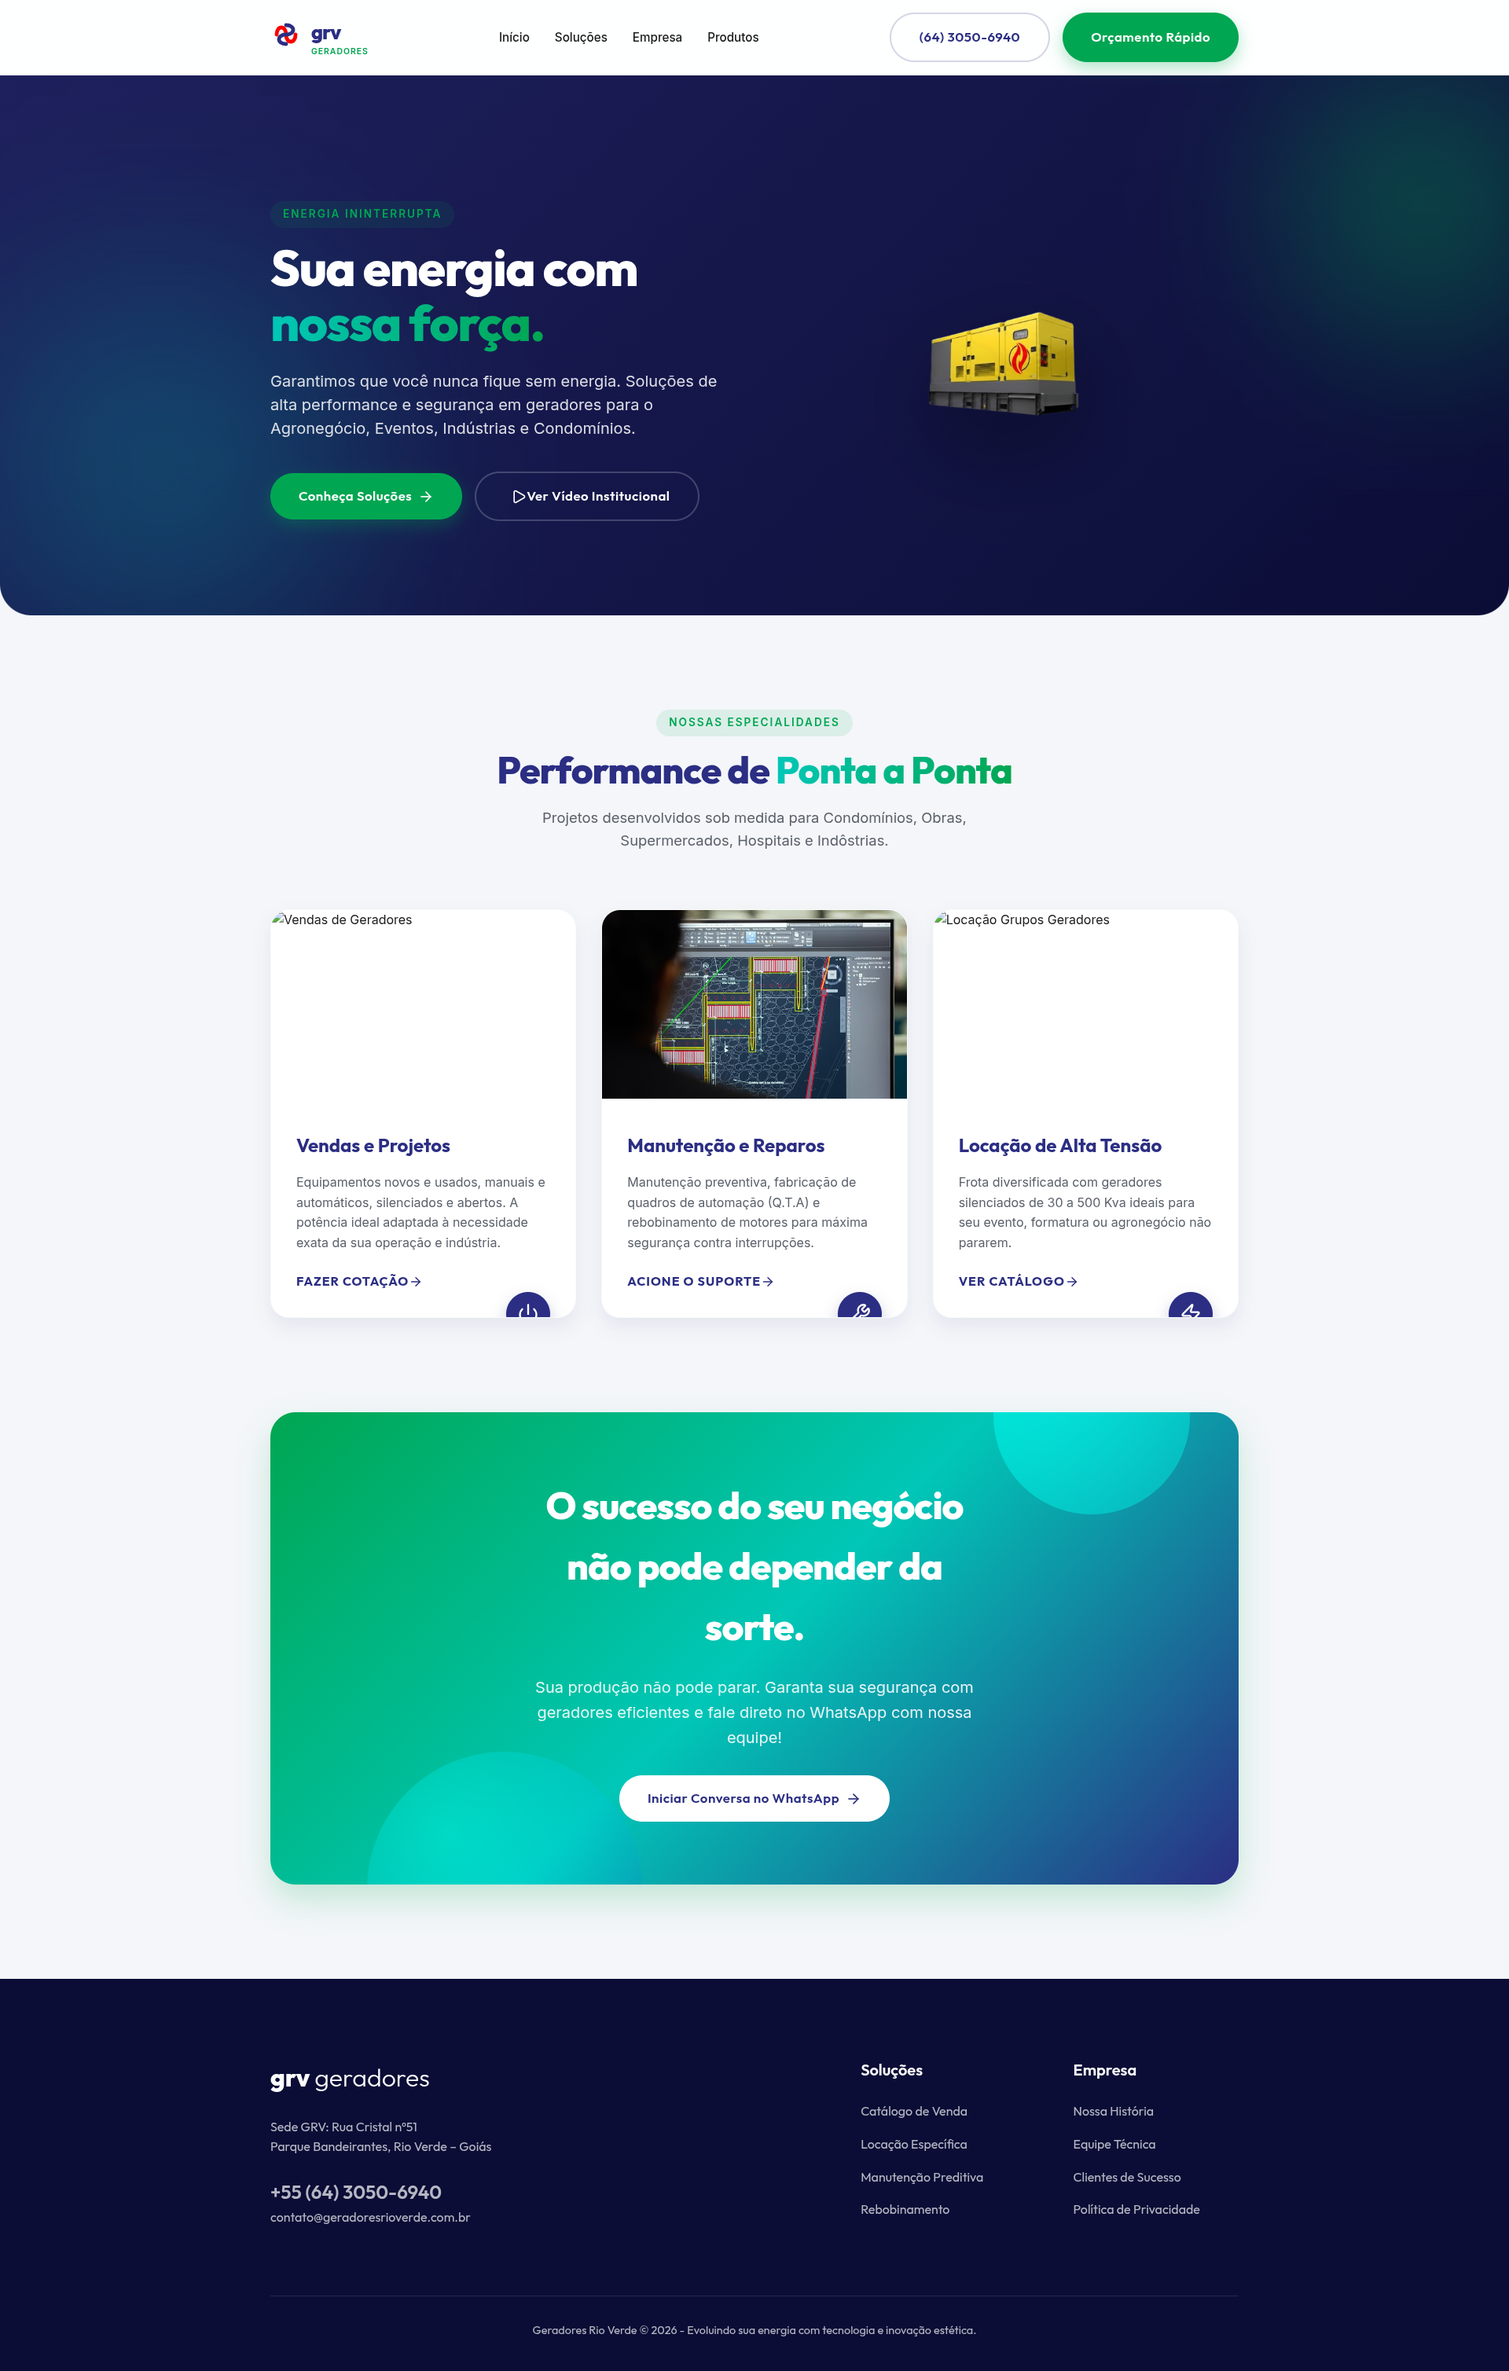
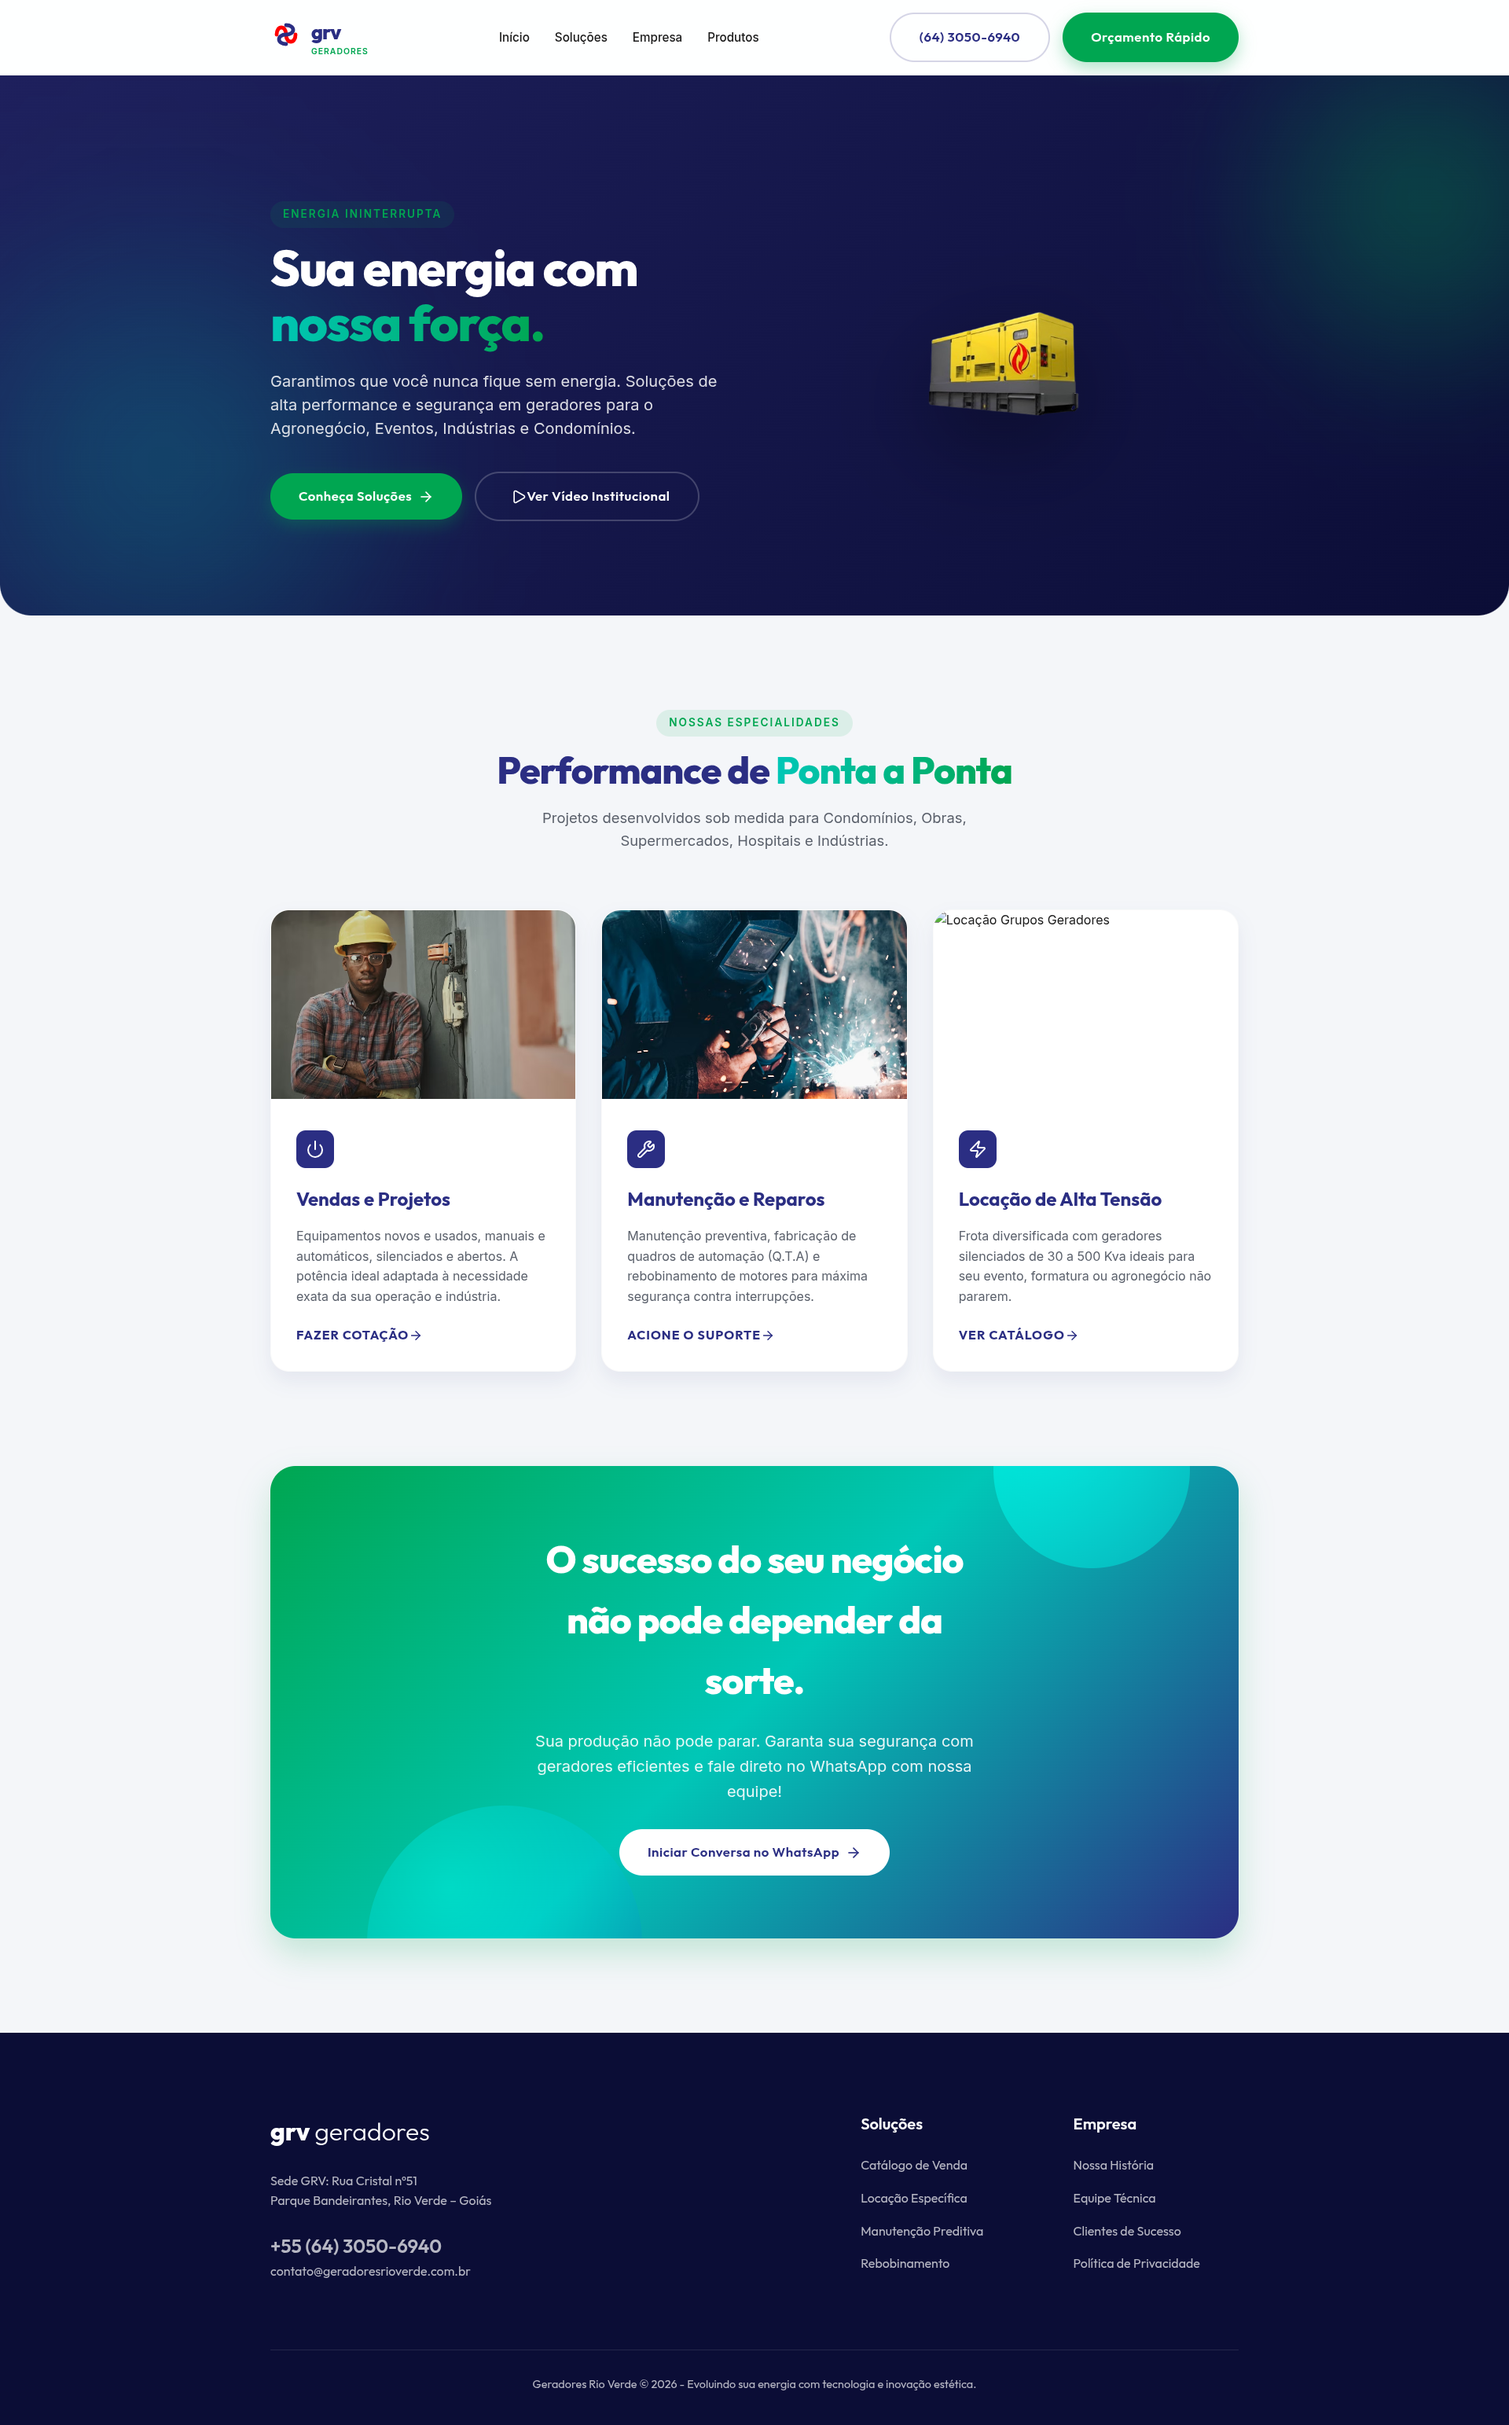
feat: novo hero com imagem de capa em tela cheia e correções de UI

diff --git a/novo-site/src/index.css b/novo-site/src/index.css
@@ -160,21 +160,52 @@ header {
   border-radius: 0 0 40px 40px;
   background: var(--gradient-dark);
   color: white;
-  padding: 160px 0 120px;
+  padding: 180px 0 140px;
   overflow: hidden;
+  min-height: 85vh;
+  display: flex;
+  align-items: center;
 }
 
-/* Efeito de fluido/energia de fundo inspirado na referência "Gostou do Conteudo" */
+/* Imagem de capa como fundo */
+.hero-bg {
+  position: absolute;
+  top: 0;
+  left: 0;
+  right: 0;
+  bottom: 0;
+  z-index: 0;
+}
+
+.hero-bg img {
+  width: 100%;
+  height: 100%;
+  object-fit: cover;
+  object-position: center right;
+}
+
+/* Overlay escuro para legibilidade */
+.hero-bg::after {
+  content: '';
+  position: absolute;
+  top: 0;
+  left: 0;
+  right: 0;
+  bottom: 0;
+  background: linear-gradient(90deg, rgba(11, 13, 54, 0.92) 0%, rgba(11, 13, 54, 0.7) 50%, rgba(11, 13, 54, 0.3) 100%);
+}
+
+/* Efeito de fluido/energia de fundo */
 .hero-glow-1 {
   position: absolute;
   top: -20%;
   right: -10%;
   width: 600px;
   height: 600px;
-  background: radial-gradient(circle, rgba(0, 166, 81, 0.4) 0%, rgba(255, 255, 255, 0) 70%);
+  background: radial-gradient(circle, rgba(0, 166, 81, 0.25) 0%, rgba(255, 255, 255, 0) 70%);
   border-radius: 50%;
   filter: blur(60px);
-  z-index: 0;
+  z-index: 1;
 }
 
 .hero-glow-2 {
@@ -183,23 +214,22 @@ header {
   left: -10%;
   width: 800px;
   height: 800px;
-  background: radial-gradient(circle, rgba(0, 199, 183, 0.3) 0%, rgba(255, 255, 255, 0) 70%);
+  background: radial-gradient(circle, rgba(0, 199, 183, 0.2) 0%, rgba(255, 255, 255, 0) 70%);
   border-radius: 50%;
   filter: blur(80px);
-  z-index: 0;
-}
-
-.hero .container {
-  display: grid;
-  grid-template-columns: 1fr 1fr;
-  align-items: center;
-  gap: 64px;
-  position: relative;
   z-index: 1;
 }
 
+.hero .container {
+  position: relative;
+  z-index: 2;
+  max-width: 700px;
+  margin: 0 auto 0 0;
+  padding-left: 80px;
+}
+
 .hero-content h1 {
-  font-size: 4rem;
+  font-size: 4.2rem;
   font-weight: 800;
   line-height: 1.1;
   margin-bottom: 24px;
@@ -215,39 +245,11 @@ header {
 
 .hero-content p {
   font-size: 1.25rem;
-  opacity: 0.85;
+  opacity: 0.9;
   margin-bottom: 40px;
-  line-height: 1.5;
+  line-height: 1.6;
   font-weight: 300;
-}
-
-.hero-image-wrapper {
-  position: relative;
-}
-
-.hero-image-wrapper img {
-  width: 100%;
-  max-width: 650px;
-  display: block;
-  margin: 0 auto;
-  position: relative;
-  z-index: 2;
-  animation: float-hero 5s ease-in-out infinite;
-  filter: drop-shadow(0 40px 60px rgba(0, 0, 0, 0.4));
-}
-
-@keyframes float-hero {
-  0% {
-    transform: translateY(0px);
-  }
-
-  50% {
-    transform: translateY(-20px);
-  }
-
-  100% {
-    transform: translateY(0px);
-  }
+  max-width: 550px;
 }
 
 /* ==========================================================================
@@ -528,20 +530,15 @@ header {
 /* RESPONSIVO */
 @media (max-width: 1024px) {
   .hero .container {
-    grid-template-columns: 1fr;
-    text-align: center;
-  }
-
-  .hero-content {
-    margin-bottom: 40px;
+    padding-left: 40px;
   }
 
   .hero-content h1 {
-    font-size: 3.5rem;
+    font-size: 3.2rem;
   }
 
   .hero-actions {
-    justify-content: center;
+    justify-content: flex-start;
   }
 
   .services-grid {

diff --git a/novo-site/src/App.tsx b/novo-site/src/App.tsx
@@ -39,8 +39,10 @@ function App() {
       </header>
 
       <main>
-        {/* HERO SECTION - Fluido Verde/Azul baseado na ref */}
         <section id="inicio" className="hero">
+          <div className="hero-bg">
+            <img src="/capa-grv.jpg" alt="Geradores Rio Verde - Banner" />
+          </div>
           <div className="hero-glow-1"></div>
           <div className="hero-glow-2"></div>
 
@@ -58,10 +60,6 @@ function App() {
                   <Play size={20} /> Ver Vídeo Institucional
                 </a>
               </div>
-            </div>
-
-            <div className="hero-image-wrapper">
-              <img src="/gerador-hero.png" alt="Gerador Industrial GRV" />
             </div>
           </div>
         </section>
@@ -109,7 +107,7 @@ function App() {
               {/* Card 3 */}
               <article className="service-card">
                 <div className="service-image">
-                  <img src="https://images.unsplash.com/photo-1558618666-fcd25c85f82e?q=80&w=800&auto=format&fit=crop" alt="Locação Grupos Geradores" />
+                  <img src="https://images.unsplash.com/photo-1513828583688-c52646db42da?q=80&w=800&auto=format&fit=crop" alt="Locação Grupos Geradores" />
                 </div>
                 <div className="service-content">
                   <div className="service-icon-inline"><Zap size={24} /></div>
